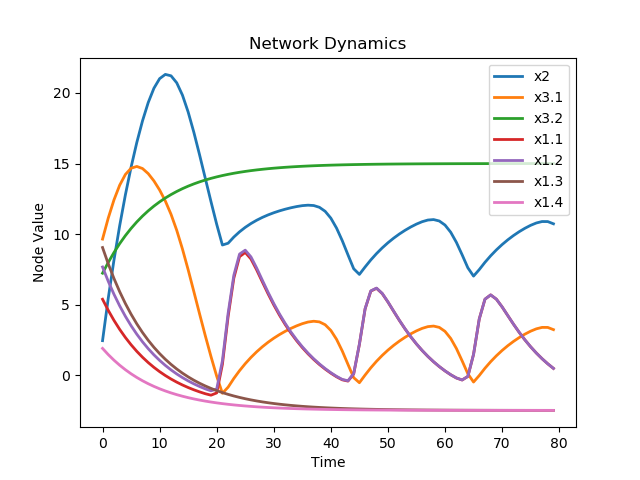
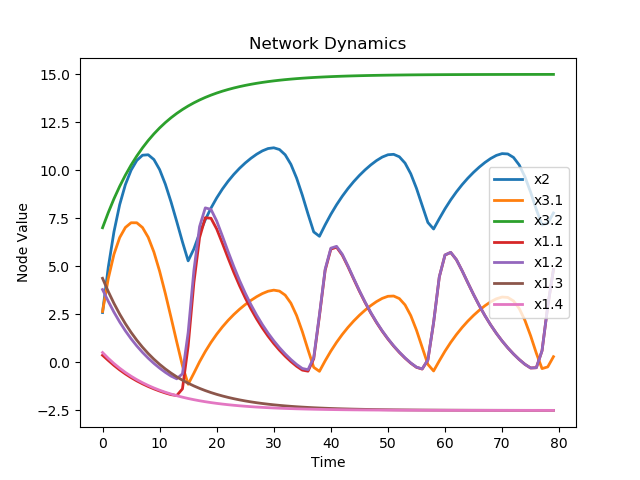
changed the stablilty matrix calcualtion so it won't fail with certain functions

diff --git a/code/specializer.py b/code/specializer.py
@@ -191,7 +191,7 @@ class DirectedGraph:
             initial_condition (ndarray): initial conditions of the nodes
             perterbations (tuple(timesteps, scale)):
                 timesteps (list): time steps to perterb the system at
-                sclar (float): scalar used to scale the random perterbations
+                scalar (float): scalar used to scale the random perterbations
             graph (bool): will graph states of nodes over time if True
         Returns:
             x (ndarray): the states of each node at every time step
@@ -561,6 +561,7 @@ class DirectedGraph:
         # extract the functions that determine the dynamics
         a,f = self.dynamics
         Df = np.zeros((self.n,self.n))
+        domain = np.linspace(-10,10,50000)
 
         # since the i,j entry of the stability matrix is the absolute
         # supremum of the partial of the ith function with respect to
@@ -576,13 +577,15 @@ class DirectedGraph:
                 if i == j:
                     # find the negative of the function's derivative
                     func = a[o_i]
-                    def _df(x): return -1.*ag.grad(func)(x)
-                    result = opt.minimize_scalar(_df)
+                    def _df(x): return -1.*ag.elementwise_grad(func)(x)
+                    _range = _df(domain)
+                    Df[i,j] = np.max(np.abs(_range))
+                    # result = opt.minimize_scalar(_df)
                     # if the function didn't minimize we raise a warning
-                    if not result['success']:
-                        raise RuntimeWarning(
-                            'one of the derivatives did not minimize')
-                    Df[i,j] = result['fun']
+                    # if not result['success']:
+                    #     raise RuntimeWarning(
+                    #         'one of the derivatives did not minimize')
+                    # Df[i,j] = result['fun']
 
                 # since there is never an edge between nodes that share
                 # an origination we set this value to 0
@@ -592,12 +595,16 @@ class DirectedGraph:
                 # here we consider the edges between nodes
                 else:
                     func = f[o_i,o_j]
-                    def _df(x): return -1.*ag.grad(func)(x)
-                    result = opt.minimize_scalar(_df)
-                    if not result['success']:
-                        raise RuntimeWarning(
-                            'one of the derivatives did not minimize')
-                    Df[i,j] = result['fun']
+                    def _df(x): return -1.*ag.elementwise_grad(func)(x)
+                    _range = _df(domain)
+                    Df[i,j] = np.max(np.abs(_range))
+                    # plt.plot(domain,_range)
+                    # plt.show()
+                    # result = opt.minimize_scalar(_df)
+                    # if not result['success']:
+                    #     raise RuntimeWarning(
+                    #         'one of the derivatives did not minimize')
+                    # Df[i,j] = result['fun']
 
         return Df
 

diff --git a/code/workbook.py b/code/workbook.py
@@ -75,24 +75,19 @@ if __name__ == "__main__":
     G = s.DirectedGraph(B, (a,f), labels=labels)
     print(G.eigen_centrality(), '\n')
     print(G.detect_sync(), '\n')
-    G.iterate_with_perterbations(1000, np.random.random(G.n), ([500], 150), graph=True, save_img=False, title="3 nodes")
-    # s = time.time()
-    # x = G.iterate(800, [1,1,1], graph=False, save_img=True, title="CGNN")
-    # e = time.time()
-    # print(e-s)
-    # print(G.eigen_centrality())
+    # G.iterate_with_perterbations(1000, np.random.random(G.n), ([500], 150), graph=True, save_img=False, title="3 nodes")
 
     G.specialize(['x1', 'x2'], verbose=False)
-    G.iterate_with_perterbations(1000, np.random.random(G.n), ([500], 150), graph=True, save_img=False, title="3 nodes")
-    # G.iterate(80, np.random.random(G.n), graph=True, save_img=True, title='spec on x1, x2')
-    # print(G.eigen_centrality(), '\n')
-    # print(G.detect_sync(), '\n')
+    # G.iterate_with_perterbations(1000, np.random.random(G.n), ([500], 150), graph=True, save_img=False, title="3 nodes")
+    G.iterate(80, np.random.random(G.n), graph=True, save_img=True, title='spec on x1, x2')
+    print(G.eigen_centrality(), '\n')
+    print(G.detect_sync(), '\n')
 
     G.specialize(['x2', 'x3.1', 'x3.2'], verbose=False)
-    G.iterate_with_perterbations(1000, np.random.random(G.n), ([500], 150), graph=True, save_img=False, title="3 nodes")
-    # G.iterate(80, np.random.random(G.n)*10, graph=True, save_img=True, title='spec on x2, x31, x32')
-    # print(G.eigen_centrality(), '\n')
-    # print(G.detect_sync(), '\n')
+    # G.iterate_with_perterbations(1000, np.random.random(G.n), ([500], 150), graph=True, save_img=False, title="3 nodes")
+    G.iterate(80, np.random.random(G.n)*10, graph=True, save_img=True, title='spec on x2, x31, x32')
+    print(G.eigen_centrality(), '\n')
+    print(G.detect_sync(), '\n')
 
     # N = nx.DiGraph(G.A.T)
     # nx.draw_networkx_labels(N, pos=nx.spring_layout(N), labels=G.labeler)
